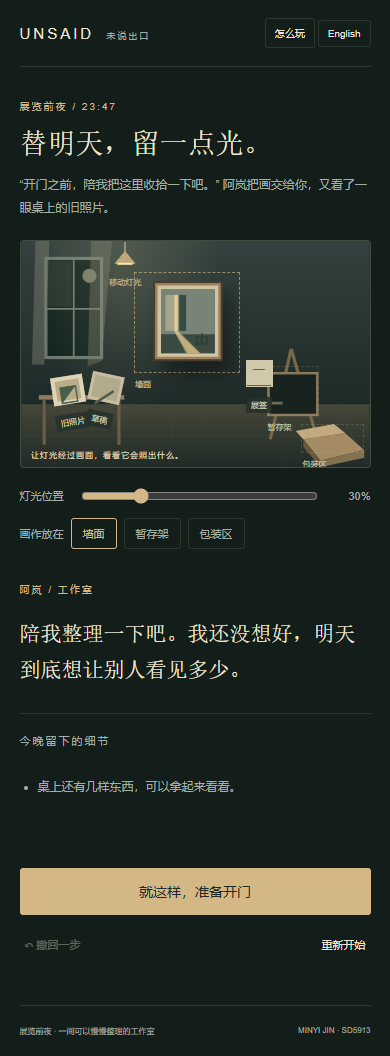
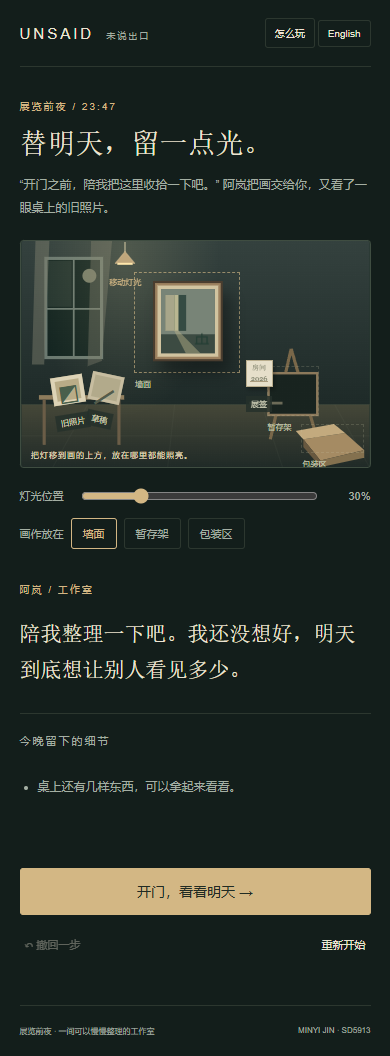
respond to reported peer feedback with light and ending revisions

diff --git a/app.js b/app.js
@@ -6,10 +6,12 @@ const names={wall:['Wall','墙面'],rack:['Holding rack','暂存架'],pack:['Pac
 const text={welcome:["Could you help me get this room ready? I'm still not sure how much I want to share tomorrow.","陪我整理一下吧。我还没想好，明天到底想让别人看见多少。"],light:["There. That strip by the curtain. She always left it open a little. That's the part I kept repainting.","就是那里，窗帘旁边的那条光。她总会留一道缝。那是我一直重画的部分。"],wall:["From here you can see the whole room. Could we leave a little space around it?","放在这里，能看见整个房间。周围留一点空白吧。"],rack:["Let's leave it here while I think. It feels easier when it doesn't have to be a final decision.","先放在这里，让我想想。不用马上决定的话，好像就没那么难了。"],pack:["Maybe I'll take it home tonight. Could you leave the wrapping open until we're done?","也许今晚我想把它带回家。先别封好包装，等我们整理完。"],labelOff:["Thank you. I can show the painting without giving everyone the whole story.","谢谢。把画留下，也不一定要把所有事情都讲出来。"],labelOn:["That is a lot to put beside a painting. Let me look at it once more before morning.","放在一幅画旁边，这些话好像有点多。天亮前，再让我看一次吧。"]};
 function snapshot(){return {state:structuredClone(state),voice};}
 function save(){history.push(snapshot());if(history.length>60)history.shift();}
-function aligned(){return state.place==='wall'&&Math.abs(state.light-48)<=8;}
+// A shared light model follows the painting rather than requiring wall placement.
+function lightTarget(){return {wall:48,rack:78,pack:88}[state.place];}
+function aligned(){return Math.abs(state.light-lightTarget())<=7;}
 function detectLight(){if(aligned()&&!state.revealed){state.revealed=true;voice='light';status=T('The curtain catches the light.','窗帘旁的细节显现了。');}}
 function setPlace(place){if(state.place===place){status=T('The painting is already here.','画已经放在这里了。');render();return;}save();state.place=place;voice=place;status=T('Painting moved. You can undo this.','画的位置已改变，可以撤回。');detectLight();render();}
-function render(){
+function renderBase(){
  document.documentElement.lang=lang?'zh-CN':'en';$('language').textContent=T('中文','English');$('help').textContent=T('How to play','怎么玩');$('studio').setAttribute('aria-label',T('Interactive studio','互动工作室'));
  $('chapter').textContent=T('THE NIGHT BEFORE / 23:47','展览前夜 / 23:47');$('title').textContent=T('Leave a little light for tomorrow.','替明天，留一点光。');$('intro').textContent=T('“Stay and help me get this ready?” Alex hands you the painting, then glances at the old photograph on the table.','“开门之前，陪我把这里收拾一下吧。” 阿岚把画交给你，又看了一眼桌上的旧照片。');
  $('voice-label').textContent=T('ALEX / THE STUDIO','阿岚 / 工作室');$('voice').textContent=text[voice][lang];$('notes-title').textContent=T('Details to take into tomorrow','今晚留下的细节');$('notes').replaceChildren();
@@ -19,7 +21,9 @@ function render(){
  document.querySelectorAll('[data-object]').forEach(b=>{b.querySelector('.tag').textContent=names[b.dataset.object][lang];b.setAttribute('aria-label',T('Inspect ','查看')+names[b.dataset.object][lang]);b.classList.toggle('seen',state.seen.includes(b.dataset.object));});document.querySelector('.label').classList.toggle('removed',!state.label);
  const positions={wall:[38,18,20],rack:[72,58,12],pack:[83,81,11]};const [x,y,w]=positions[state.place];if(!drag||drag.kind!=='painting')Object.assign($('painting').style,{left:x+'%',top:y+'%',width:w+'%'});
  $('painting').setAttribute('aria-label',T('Painting: drag to an area, or click to cycle positions.','画作：拖动至标记区域，或点击切换位置。'));$('lamp').style.left=state.light+'%';$('beam').style.left=state.light+'%';$('lamp').querySelector('span').textContent=T('Move light','移动灯光');$('lamp').setAttribute('aria-label',T('Move light; also available using the slider below.','移动灯光，也可使用下方滑块。'));$('hidden-light').style.opacity=aligned()?'1':'0';
- $('stage-caption').textContent=state.place!=='wall'?T('Return the painting to the wall to explore it in the light.','想再看看画里的光，可以先把画放回墙上。'):state.revealed?T('Pick up the objects. Then decide where the painting belongs.','拿起物件看看，再决定画要放在哪里。'):T('Move the lamp across the painting. What does it reveal?','让灯光经过画面，看看它会照出什么。');$('footer-note').textContent=T('THE NIGHT BEFORE · AN INTERACTIVE STUDIO','展览前夜 · 一间可以慢慢整理的工作室');
+ $('painting').classList.toggle('illuminated',aligned());
+ $('beam').style.height=({wall:85,rack:120,pack:150}[state.place])+'%';
+ $('stage-caption').textContent=aligned()?T('The light found the painting. What will you let visitors see?','灯光落在画上。你想让明天的观众看见什么？'):T('Move the lamp towards the painting, wherever you have placed it.','把灯移到画的上方，放在哪里都能照亮。');$('footer-note').textContent=T('THE NIGHT BEFORE · AN INTERACTIVE STUDIO','展览前夜 · 一间可以慢慢整理的工作室');
  $('help-title').textContent=T('A room before morning','天亮之前');$('help-copy').textContent=T('Move the lamp left or right, or use its slider. When the painting is on the wall, light near its curtain reveals a detail.\n\nPick up the photograph, study sheet and label. Turn them over. The label can stay on the wall or be taken down.\n\nDrag the painting to a marked area, or use the three position buttons below the room. Clicking the painting also cycles positions. Buttons work with Tab and Enter; use arrow keys on the light slider.\n\nWhen ready, leave the room. Undo and Start over let you try again. Nothing is uploaded or saved when you refresh.','左右拖动灯光，或使用下方滑块。画挂在墙上时，靠近窗帘的灯光会显露细节。\n\n拿起照片、草稿和展签，可以翻面。展签可以留下，也可以取下来。\n\n把画拖到标记区域，也可以使用下方三个位置按钮。点击画作会依次切换位置。按钮可用 Tab 和 Enter 操作，滑块可用方向键。\n\n整理好后，点击“准备开门”。随时可以撤回或重新开始。刷新会从头开始，操作不会上传。');$('help-ok').textContent=T('Back to the studio','回到工作室');$('reset-title').textContent=T('Begin the evening again?','重新回到今晚？');$('reset-copy').textContent=T('The light, painting and label will return to their starting positions.','灯光、画作和展签会恢复初始位置。');$('cancel-reset').textContent=T('Keep arranging','继续整理');$('confirm-reset').textContent=T('Start over','重新开始');$('continue').textContent=T('Return to the room','再看看这个房间');$('ending-eyebrow').textContent=T('BEFORE MORNING / 05:12','天快亮了 / 05:12');
  if(currentObject)renderObject();if($('ending').open)renderEnding();
 }
@@ -62,4 +66,33 @@ function moveDrag(e){if(!drag||e.pointerId!==drag.id)return;if(Math.hypot(e.clie
 function endDrag(e,cancel=false){if(!drag||e.pointerId!==drag.id)return;const d=drag;drag=null;$('studio').classList.remove('dragging-room');$('painting').classList.remove('dragging');if(cancel){state=d.before.state;voice=d.before.voice;status=T('Movement cancelled; the previous position was restored.','移动已取消，恢复原来的位置。');render();return;}if(d.kind==='lamp'){if(d.moved)history.push(d.before);render();return;}if(!d.moved){const places=['wall','rack','pack'];setPlace(places[(places.indexOf(state.place)+1)%3]);return;}const x=(e.clientX-d.rect.left)/d.rect.width*100,y=(e.clientY-d.rect.top)/d.rect.height*100;const target=x>=32&&x<=64&&y>=12&&y<=60?'wall':x>=69&&x<=86&&y>=53&&y<=80?'rack':x>=79&&x<=100&&y>=79&&y<=100?'pack':null;if(target){history.push(d.before);state.place=target;voice=target;status=T('Painting placed.','画已放好。');detectLight();}else status=T('Place it inside a marked area. The painting returned safely.','请放到标记区域内，画已回到原处。');render();}
 for(const [id,kind] of [['painting','painting'],['lamp','lamp']]){const b=$(id);b.addEventListener('pointerdown',e=>beginDrag(e,kind));b.addEventListener('pointermove',moveDrag);b.addEventListener('pointerup',e=>endDrag(e));b.addEventListener('pointercancel',e=>endDrag(e,true));}
 $('painting').addEventListener('click',e=>{if(e.detail===0){const places=['wall','rack','pack'];setPlace(places[(places.indexOf(state.place)+1)%3]);}});
+// Additional scene feedback and the final visitor view use the same live arrangement.
+function render(){
+ renderBase();
+ $('help-copy').textContent=T('Move the lamp over the painting on the wall, rack or packing table. A warm highlight appears when it catches the light.\n\nPick up the photograph and studies; turn them over to find their notes. Open the exhibition label to choose whether visitors will read the private statement.\n\nDrag the painting into a marked area, or use the position buttons. Use Tab and Enter for buttons, arrow keys for the light slider.\n\nAfter inspecting two objects, open the doors to see the exhibition you arranged. The final scene can be revisited or restarted.','把灯移到画的上方：墙面、暂存架和包装区都能照亮，光落到画上时会出现暖色细节。\n\n拿起照片和草稿，翻面查看批注。打开展签，决定观众是否会读到私人自述。\n\n拖动画作到标记区域，或使用位置按钮。按钮支持 Tab / Enter，灯光滑块支持方向键。\n\n查看两件物品后，开门看看你布置的展览。结局后可以返回修改，也可以从头再玩。');
+ $('finish').textContent=T('Open the doors →','开门，看看明天 →');
+ document.querySelector('.mini-label').textContent=T('ROOM\n2026','房间\n2026');
+ document.querySelector('.label').setAttribute('title',state.label?T('Visitors will read Alex’s personal statement.','观众会读到阿岚的私人自述。'):T('The statement is set aside; visitors will see the artwork alone.','私人自述已收起，观众只看作品。'));
+ if(currentObject==='label')$('object-copy').textContent+=(state.label?T('\n\nDISPLAYED: visitors can read this personal history beside the painting.','\n\n当前：公开。观众会在画旁读到这段私人经历。'):T('\n\nSET ASIDE: visitors will see the painting without the personal statement.','\n\n当前：收起。观众只会看见画，不会读到这段私人经历。'));
+ $('continue').textContent=T('Revise this exhibition','回到夜里，重新布置');
+ $('play-again').textContent=T('Begin a new evening','开始新的一晚');
+};
+const oldEnding=renderEnding;
+renderEnding=function(){
+ oldEnding();
+ const endingKey=state.place==='wall'?(state.label?'shared':'quiet'):state.place;
+ $('ending').dataset.ending=endingKey;
+ $('ending-eyebrow').textContent=T('EPILOGUE / THE NEXT MORNING','尾声 / 第二天清晨');
+ const visitor={shared:T('The first visitor reads the statement, then steps back to look at the room. Alex stands beside you. “I can tell this part today.”','第一位观众读完展签，退后一步看那间房间。阿岚站在你身边：“今天，我可以讲这一部分。”'),quiet:T('A visitor stops at the painting. Without a statement to read, they spend a little longer looking at the curtain. Alex lets the silence stay.','观众在画前停下。没有自述可读，目光在窗帘上多停留了一会儿。阿岚没有急着解释。'),rack:T('The doors open onto a space still being arranged. Alex sits beside the rack with a pencil. “Not everything has to be ready at the same time.”','门开了，房间仍在整理。阿岚拿着铅笔坐在暂存架旁：“也许，不用所有事情都一起准备好。”'),pack:T('By morning the painting is wrapped, ready to travel. Alex lifts it gently. An empty place remains on the wall, waiting for another day.','天亮时，画已经包好，准备带走。阿岚轻轻抱起它。墙上的位置暂时空着，留给另一天。')};
+ $('visitor-response').textContent=visitor[endingKey];
+ const scene=$('final-scene');scene.replaceChildren();
+ const room=document.querySelector('.room').cloneNode(true);
+ room.querySelectorAll('[id]').forEach(el=>{const old=el.id;el.id='final-'+old;room.querySelectorAll('[fill]').forEach(shape=>{if(shape.getAttribute('fill')===`url(#${old})`)shape.setAttribute('fill',`url(#final-${old})`);});});scene.append(room);
+ const painting=$('painting').cloneNode(true);painting.removeAttribute('id');painting.className='final-painting';painting.disabled=true;painting.querySelectorAll('[id]').forEach(e=>e.removeAttribute('id'));scene.append(painting);
+ if(state.place==='pack'){const wrap=document.createElement('div');wrap.className='final-wrap';scene.append(wrap);}
+ if(state.place==='wall'&&state.label){const label=document.createElement('div');label.className='final-label';label.textContent=T('ROOM / 2026\nA personal history','房间 / 2026\n一段私人记忆');scene.append(label);}
+ const dawn=document.createElement('div');dawn.className='dawn';scene.append(dawn);
+ const caption=document.createElement('p');caption.className='final-caption';caption.textContent={shared:T('The story is shared.','故事被讲给了别人。'),quiet:T('The work speaks first.','先让作品开口。'),rack:T('There is still time.','还有一些时间。'),pack:T('A memory goes home.','一段记忆，被带回家。')}[endingKey];scene.append(caption);
+};
+$('play-again').onclick=()=>{$('ending').close();state=initial();history=[];voice='welcome';status='';render();};
 render();

diff --git a/style.css b/style.css
@@ -1,3 +1,6 @@
 *{box-sizing:border-box}:root{color-scheme:dark;--bg:#131e1b;--ink:#ece5d3;--muted:#a4afa3;--gold:#d3b784;--line:#d1d6b522}body{margin:0;background:var(--bg);color:var(--ink);font:14px Arial,"Microsoft YaHei",sans-serif}button,a,input{-webkit-tap-highlight-color:transparent}button{font:inherit;color:inherit;cursor:pointer;background:none;border:1px solid var(--line);border-radius:3px;padding:10px 15px}button:hover{border-color:var(--gold);background:#d3b7840c}button:focus-visible,a:focus-visible,input:focus-visible{outline:2px solid #f5dca0;outline-offset:4px}button:disabled{opacity:.35;cursor:default}header{margin:0 5vw;padding:23px 0;display:flex;justify-content:space-between;align-items:center;border-bottom:1px solid var(--line)}header a{color:var(--ink);text-decoration:none;letter-spacing:5px;font-size:18px}header a span{font-size:11px;letter-spacing:2px;color:var(--muted);margin-left:12px}header button{margin-left:8px;font-size:12px}main{max-width:1600px;margin:auto;padding:35px 5vw 0}.heading{display:flex;justify-content:space-between;align-items:center;margin-bottom:26px;gap:25px}.eyebrow{font-size:10px;letter-spacing:2px;color:var(--gold);text-transform:uppercase}h1{font:normal clamp(28px,3vw,43px)/1.25 Georgia,"Songti SC",serif;margin:13px 0}.heading>p{max-width:340px;line-height:1.9;color:var(--muted);font-size:12px}.layout{display:grid;grid-template-columns:minmax(0,1fr) 265px;gap:34px}#studio{aspect-ratio:1000/650;position:relative;overflow:hidden;border:1px solid #aeb29530;border-radius:4px;background:#25352e;isolation:isolate}.room{position:absolute;width:100%;height:100%;inset:0}#beam{position:absolute;left:30%;top:-6%;width:55%;height:85%;transform:translateX(-50%);background:radial-gradient(ellipse at 50% 15%,#fff0ac24,transparent 70%);pointer-events:none;z-index:1}.zone{position:absolute;border:1px dashed #c6c4a333;z-index:2;padding:0;border-radius:0;transition:background .2s,border-color .2s}.zone span{position:absolute;bottom:-24px;left:0;font-size:10px;color:#c0c5ad;white-space:nowrap;letter-spacing:1px}.wall-zone{left:32.5%;top:13.8%;width:30.5%;height:44.6%}.rack-zone{left:70.5%;top:55.5%;width:15%;height:22%}.pack-zone{left:80.5%;top:81%;width:18%;height:13%}.zone.active{border-color:#e6c78f90}.dragging-room .zone{background:#d3b78412;border-color:#e6c78f99}.zone:hover{background:#d3b78415}#painting{position:absolute;left:38%;top:18%;width:20%;padding:0;border:0;background:transparent;z-index:4;touch-action:none;cursor:grab;filter:drop-shadow(8px 12px 8px #0005);transition:width .2s,filter .2s}#painting svg{display:block;width:100%;height:auto}#painting.dragging{cursor:grabbing;transition:none;filter:drop-shadow(15px 20px 12px #0007)}#hidden-light{opacity:0;transition:opacity .3s}#lamp{position:absolute;left:30%;top:0;width:8%;height:17%;transform:translateX(-50%);padding:0;border:0;z-index:6;touch-action:none;cursor:ew-resize;background:transparent}#lamp svg{width:100%;height:100%}#lamp span{position:absolute;top:95%;left:50%;transform:translateX(-50%);font-size:9px;white-space:nowrap;color:var(--gold)}.object{position:absolute;z-index:5;padding:0;border:0;border-radius:0}.object:hover{filter:brightness(1.25)}.photo{left:9%;top:60%;width:7%;height:8%;transform:rotate(-9deg)}.mini-photo{display:grid;place-items:center;background:#b9ac87;border:4px solid #ddd3b6;color:#4a5f4b;width:100%;height:100%;font-size:25px}.sketch{left:20%;top:59%;width:7%;height:9%;transform:rotate(12deg)}.mini-sketch{display:grid;place-items:center;background:#b2aa8b;color:#535c4c;width:100%;height:100%;font-size:30px;border:3px solid #c7bda0}.label{left:64.5%;top:53%;width:5%;height:7%;background:#d1c7aa;color:#626750}.mini-label{font-size:12px}.label.removed{left:26%;top:61%;transform:rotate(-5deg)}.tag{position:absolute;top:calc(100% + 10px);left:50%;transform:translateX(-50%);white-space:nowrap;font-size:10px;color:#d3d3ba;letter-spacing:1px;background:#24302ad9;padding:3px 5px}.object.seen:after{content:"";position:absolute;right:-4px;top:-4px;width:7px;height:7px;background:var(--gold);border-radius:50%}.stage-caption{position:absolute;left:3%;bottom:3%;color:#e1dbbd;font-size:11px;letter-spacing:1px;z-index:7;pointer-events:none}.light-control{display:flex;align-items:center;gap:15px;margin-top:18px;color:var(--muted);font-size:11px}.light-control input{flex:1;accent-color:var(--gold);min-width:60px}.light-control span{width:36px;text-align:right}.placement{display:flex;gap:7px;align-items:center;flex-wrap:wrap;margin-top:12px;font-size:11px;color:var(--muted)}.place-option{font-size:11px;padding:7px 11px}.place-option[aria-pressed=true]{border-color:var(--gold);color:var(--gold)}aside{padding:10px 0;display:flex;flex-direction:column}#voice{font:normal 22px/1.75 Georgia,"Songti SC",serif;min-height:155px;margin:18px 0}.divider{height:1px;background:var(--line);margin:4px 0 23px}aside h2{font-size:11px;font-weight:400;color:var(--muted);letter-spacing:2px}#notes{padding-left:18px;color:var(--muted);line-height:1.8;font-size:12px;min-height:100px}#notes li{margin:8px 0}#status{font-size:12px;line-height:1.7;min-height:40px;color:var(--gold)}.primary{background:#d3b784;color:#202b23;border-color:#d3b784;padding:13px 17px}.primary:hover{background:#e2c99f;color:#152219}.small-actions{display:flex;justify-content:space-between;margin-top:13px;gap:5px}.small-actions button{font-size:11px;padding:9px 5px;border:0}footer{display:flex;justify-content:space-between;gap:20px;margin-top:36px;padding:20px 0;border-top:1px solid var(--line);color:var(--muted);font-size:9px;letter-spacing:1.5px}dialog{background:#202e27;color:var(--ink);border:1px solid #d3b78460;border-radius:5px;padding:35px;max-width:min(550px,92vw);width:550px;max-height:90dvh;overflow:auto;box-shadow:0 25px 100px #0008}dialog::backdrop{background:#09130fd9;backdrop-filter:blur(5px)}dialog h2{font:normal 30px/1.4 Georgia,"Songti SC",serif;margin:20px 0 12px}dialog p{line-height:1.9;color:#ccd1bd;font-size:14px;white-space:pre-line}.close{position:absolute;right:15px;top:12px;border:0;font-size:24px;padding:3px 10px}.dialog-actions{display:flex;gap:10px;flex-wrap:wrap;margin-top:25px}.dialog-actions button{font-size:12px}#object-art{height:180px;background:#17251f;display:grid;place-items:center;margin-top:20px;overflow:hidden}#object-art svg{height:150px;max-width:90%}#ending-summary{border-left:1px solid var(--gold);padding-left:17px;margin:24px 0;color:var(--muted);font-size:13px;line-height:2;white-space:pre-line}.back-art{font:italic 22px/1.8 Georgia,"Songti SC",serif;padding:20px;color:#d1c5a1;transform:rotate(-3deg)}@media(max-width:1000px){.layout{grid-template-columns:minmax(0,1fr) 230px;gap:23px}#voice{font-size:19px}}@media(max-width:760px){header{margin:0 5vw;padding:18px 0}header a{font-size:15px;letter-spacing:3px}header a span{margin-left:5px;font-size:9px}header button{padding:7px 9px;font-size:10px;margin-left:3px}main{padding-top:22px}.heading{display:block;margin-bottom:20px}.heading>p{font-size:12px;max-width:none}.layout{grid-template-columns:1fr;gap:15px}#voice{min-height:0;font-size:21px;margin:10px 0 20px}.divider{margin-bottom:10px}#notes{min-height:0}aside{padding:8px 0}#status{min-height:25px}.tag,.zone span{font-size:8px;letter-spacing:0}.zone span{bottom:-17px}.stage-caption{font-size:8px;max-width:73%}#lamp span{font-size:8px}dialog{padding:27px}footer{font-size:8px;letter-spacing:0}.object.photo,.object.sketch{min-width:32px;min-height:28px}.label{min-width:27px;min-height:27px}}@media(prefers-reduced-motion:reduce){*{transition:none!important;scroll-behavior:auto!important}}
 /* Object close-ups stay legible without external image assets. */
 .study-sheet{display:grid;grid-template-columns:repeat(3,1fr);gap:5px;background:#c9bc97;padding:10px 20px;transform:rotate(-3deg);height:155px;width:240px}.study-sheet svg{height:62px!important;width:62px}.label.removed{left:32%;top:65%;transform:rotate(-5deg)}
+/* Light remains useful at every destination; epilogues show the arranged scene. */
+#painting.illuminated{filter:drop-shadow(0 0 16px #f8d58d66) brightness(1.15)}.mini-label{display:block;font:9px/1.5 Georgia,serif;white-space:pre-line;letter-spacing:1px}.label{background:#e6dfca;border:1px solid #b9ad8d;box-shadow:2px 3px 4px #0004}.label:before{content:"";position:absolute;left:15%;right:15%;bottom:16%;height:1px;background:#aa9b7d}
+#ending{width:850px;max-width:94vw}#ending h2{margin-top:10px}#final-scene{position:relative;isolation:isolate;aspect-ratio:1000/650;overflow:hidden;background:#314339;border-radius:3px}#final-scene .room{z-index:0}.final-painting{position:absolute;z-index:1;padding:0;border:0;background:none!important;opacity:1!important;filter:brightness(1.18);pointer-events:none}.final-painting svg{width:100%;display:block}.dawn{position:absolute;inset:0;background:linear-gradient(110deg,#ffe7a24d,transparent 65%);pointer-events:none;z-index:3}.final-label{position:absolute;left:64%;top:52%;padding:5px;background:#e8dfc6;color:#534d3b;font-size:8px;white-space:pre-line;z-index:2}.final-wrap{position:absolute;left:82%;top:80%;width:13%;height:19%;background:repeating-linear-gradient(40deg,#b6a17b,#b6a17b 18px,#c3af88 19px,#c3af88 40px);transform:rotate(-5deg);z-index:2;border:1px solid #e0cca4}.final-caption{position:absolute;bottom:3%;left:4%;margin:0!important;color:#fff0cb!important;z-index:4;font:18px/1.4 Georgia,"Songti SC",serif!important;text-shadow:0 2px 5px #000}#visitor-response{padding:16px 20px;border-left:2px solid var(--gold);background:#d3b7840b}#ending[data-ending=pack] .dawn{background:linear-gradient(120deg,#e6d1a233,transparent)}@media(max-width:760px){.mini-label{font-size:7px;letter-spacing:0}.final-caption{font-size:14px!important}.final-label{font-size:5px;padding:2px}#ending{padding:23px}}

diff --git a/index.html b/index.html
@@ -21,7 +21,7 @@
 <aside><p class="eyebrow" id="voice-label"></p><p id="voice" aria-live="polite"></p><div class="divider"></div><h2 id="notes-title"></h2><ul id="notes"></ul><p id="status" role="status"></p><button id="finish" class="primary"></button><div class="small-actions"><button id="undo"></button><button id="restart"></button></div></aside></div>
 <footer><span id="footer-note"></span><span>MINYI JIN · SD5913</span></footer></main>
 <dialog id="inspect"><button class="close" id="close-inspect" aria-label="Close">×</button><p class="eyebrow" id="object-number"></p><div id="object-art"></div><h2 id="object-title"></h2><p id="object-copy"></p><div class="dialog-actions"><button id="flip"></button><button id="label-toggle" hidden></button><button id="put-back" class="primary"></button></div></dialog>
-<dialog id="ending"><p class="eyebrow" id="ending-eyebrow"></p><h2 id="ending-title"></h2><p id="ending-copy"></p><div id="ending-summary"></div><button id="continue" class="primary"></button></dialog>
+<dialog id="ending"><p class="eyebrow" id="ending-eyebrow"></p><h2 id="ending-title"></h2><div id="final-scene" aria-label="Final exhibition"></div><p id="ending-copy"></p><p id="visitor-response"></p><div id="ending-summary"></div><div class="dialog-actions"><button id="continue"></button><button id="play-again" class="primary"></button></div></dialog>
 <dialog id="help-dialog"><button class="close" id="close-help" aria-label="Close">×</button><h2 id="help-title"></h2><p id="help-copy"></p><button id="help-ok" class="primary"></button></dialog>
 <dialog id="reset-dialog"><h2 id="reset-title"></h2><p id="reset-copy"></p><div class="dialog-actions"><button id="cancel-reset"></button><button id="confirm-reset" class="primary"></button></div></dialog>
 <script src="app.js"></script></body></html>

diff --git a/PROCESS.md b/PROCESS.md
@@ -26,9 +26,11 @@ The assistant proposed a narrative game, but the author requested repository set
 
 ## User trial / 真人试用
 
-Not conducted yet. After a runnable prototype exists, ask at least one other person to try it before explaining the controls. Record what they attempt, hesitation, whether feedback is understood, and one resulting improvement or a reason to retain the design. Do not publish identifying details or recordings of the participant.
+At the initial scaffold stage, no trial had been reported. For the later peer feedback reported by the author on 25 October, see the dated entry below and USER-TRIAL.md. Participant identities are not published.
 
 尚未进行。原型可运行后，在解释操作之前请至少一人尝试；记录实际操作、犹豫点、反馈是否易懂，以及据此作出的修改或保留理由。不公开参与者身份信息或录音录像。
+
+（以上为初始阶段状态；10 月 25 日作者转述的两位同学反馈，见文末及 USER-TRIAL.md。）
 
 ## 20 October 2026 — First playable conversation / 首个可玩对话
 
@@ -61,3 +63,17 @@ Code and SVG/CSS scene artwork were produced with Codex. The fictional bereaveme
 Verification: headless Edge exercised actual mouse dragging, native slider input, undo, object inspection/flipping, label removal/replacement, all four closing scenes, invalid drop return, keyboard placement, language preservation and reset cancellation/confirmation. A 390 px layout and touch-enabled browser context were also checked. No JavaScript page errors were observed. Desktop/mobile screenshots were visually inspected. This is developer verification, not a claim that a person used the design without guidance. No official course checker was run.
 
 Remaining: ask another person to use the revised studio before explaining controls; record their real attempts, hesitation and feedback using USER-TRIAL.md, then document the resulting change or retention decision. Do not claim that the author's critique or browser automation fulfils this requirement.
+
+## 25 October 2026 — Peer feedback reported by the author / 作者转述同学反馈
+
+The author clarified that the earlier dialogue critique and the later studio critique came from two different classmates and were relayed in conversation. They are recorded separately as P1 and P2 in USER-TRIAL.md. This supersedes our earlier attribution of those comments solely to author review. The developer did not directly observe either session. Actual session dates, devices, exact quotations and whether controls were explained beforehand were not supplied; no details are invented. The report date below is not a claimed session date.
+
+作者澄清，早期的对话版意见与后来的场景版意见分别来自两位同学，由作者口头转述。因此在 USER-TRIAL.md 中分别记录为 P1 与 P2，修正此前仅归为作者评审的来源判断。开发助手没有直接观察试用；实际日期、设备、逐字原话，以及是否在试用前解释玩法，均未提供，不作补写。
+
+P1 found the original experience too passive and similar to a branching visual novel. Decision: retain the move from selecting dialogue to manipulating the studio, documented in the 21 October implementation.
+
+P2 liked the light interaction and the texture of the photograph/studies, but was disappointed that light stopped affecting the painting on the rack or in the packing area. They did not understand the label's purpose and found its appearance weak. They also found the old ending unclear: the main visible next action was returning to the same room. They wanted more distinct conclusions. These are paraphrases of the author's report, not direct participant quotations.
+
+Implemented response: alignment now follows painting position in all three destinations, with a visible warm highlight. The label has a typeset face and explicit displayed/set-aside consequences. Opening the doors creates an epilogue with a morning scene based on the actual arrangement, four distinct closing outcomes, visitor/character text, and separate revise/restart actions. Preserve the photograph, studies and language switching in response to positive feedback. The inline SVG morning scene is code-authored with Codex; no new external assets or services were introduced.
+
+Developer verification: browser checks exercised illumination on the wall, rack and packing area, object inspection, undo, all four closing outcomes, wrapping visible in the packing ending, invalid-drop recovery, keyboard alternatives, reset confirmation and touch-enabled controls. Screenshots were captured. A peer retest of these new changes has not yet been reported. Before final submission, clarify whether the original trial began without an explanation of the controls, as the brief requests.

diff --git a/README.md b/README.md
@@ -18,11 +18,11 @@ The first version used branching dialogue. Following the author's feedback that 
 
 ## What you can do / 操作
 
-- Move the hanging lamp, or use the light-position slider. With the painting on the wall, light near its curtain reveals a detail and changes Alex's response.
+- Move the hanging lamp, or use the light-position slider. Light reveals the curtain detail on the wall, holding rack and packing area. Move the lamp towards the painting's current position; a warm highlight confirms alignment.
 - Pick up the photograph, study sheet and exhibition label. Turn each over to read the reverse.
 - Drag the painting to the wall, holding rack or packing area. The visible placement, selected control and character response change together. Position buttons below the scene offer the same action; clicking the painting cycles through positions.
 - Take the statement off the wall or put it back. Its location in the room changes.
-- After inspecting two objects, choose to leave the room ready. The closing scene reflects the painting's location and whether the statement remains displayed. Return to the room to revise it.
+- After inspecting two objects, open the doors. An illustrated morning epilogue reflects your actual arrangement: sharing the statement, exhibiting the painting alone, leaving it on the rack, or taking it home. Each has distinct closing text. Revise the exhibition or begin a new evening using separate buttons.
 - Undo restores the previous action. Start over asks for confirmation. English/Chinese switching preserves the arrangement.
 
 拖灯或使用滑块照亮画中细节；拿起三件物品并翻面；将画放到墙面、暂存架或包装区；决定展签是否公开。查看至少两件物品后，可以结束布展，看到与当前布置对应的收尾。可以回到房间继续调整，也可撤回或确认重启。语言切换保留状态。
@@ -51,9 +51,9 @@ A relevant mistake is an invalid painting drop: the picture returns to its previ
 
 ## Limitations / 局限
 
-This is stylised fiction involving bereavement, not a counselling tool. The physical light reveals an authored visual layer rather than simulating optics. The artwork and room are geometric SVG illustrations. Painting movement snaps to three destinations; other objects are inspected in place. Refreshing restarts the session; there is no persistent save, audio or network AI. The author still needs to review the new fictional scene and conduct the required real-person trial. Automated browser checks are not that trial.
+This is stylised fiction involving bereavement, not a counselling tool. Light reveals an authored visual layer rather than simulating optics. The artwork and room are geometric SVG illustrations. Painting movement snaps to three destinations; other objects are inspected in place. Refreshing restarts the session; there is no persistent save, audio or network AI. Feedback from two classmates has been reported by the author and informed revisions; the developer did not directly observe those sessions. Whether controls were explained before those sessions still needs clarification. A participant retest of the latest changes has not been reported.
 
-这是涉及丧亲记忆的风格化虚构作品。光照通过预设图层表达，画作吸附到三个固定位置，不是物理模拟。刷新会重启，没有存档、声音或在线生成。新版仍待作者审阅与真人试用，浏览器验证不能代替真人试用。
+这是涉及丧亲记忆的风格化虚构作品。光照通过预设图层表达，画作吸附到三个固定位置，不是物理模拟。刷新会重启，没有存档、声音或在线生成。两位同学的反馈已由作者转述并用于修改，助手未直接观察试用。试用前是否讲解玩法仍待确认，新版尚未收到参与者复测。
 
 ## Development verification / 开发验证
 
@@ -74,7 +74,8 @@ Due **1 November 2026, 23:59 Hong Kong time**, according to the supplied Canvas 
 - [x] Scene interactions and mistake recovery checked in a browser.
 - [x] Development decisions, AI assistance and credits documented.
 - [ ] Author review of the revised scene and interaction.
-- [ ] Real-person trial, observation and a resulting decision recorded.
+- [x] Two classmates' feedback recorded as reported by the author, with resulting design decisions.
+- [ ] Confirm whether the trial started before explaining controls; report any final participant retest.
 - [ ] Final fresh-terminal run and signed-out repository check.
 - [ ] Final repository URL submitted on Canvas by the author.
 

diff --git a/USER-TRIAL.md b/USER-TRIAL.md
@@ -1,6 +1,33 @@
 # User trial guide / 真人试用步骤
 
-This is a blank protocol, not a completed trial. / 这是试用步骤，尚未完成真人试用。
+## Reported feedback / 已转述的反馈
+
+Source: on 25 October 2026 the author explicitly stated that the comments below came from two different classmates and were relayed by the author. The developer did not directly observe these sessions. Entries are paraphrases, not verbatim quotations. Actual trial dates, devices and whether participants received an explanation before starting were not supplied. 25 October is the report date, not a reconstructed trial date. No signatures or identifying information are included.
+
+来源：2026 年 10 月 25 日，作者明确说明以下意见分别来自两位不同同学，由作者转述。助手未直接观察试用；记录为转述，不作逐字引用。实际试用日期、设备和开始前是否讲解玩法未提供。10 月 25 日是反馈报告日期，不是推定试用日期。
+
+### P1 — Branching dialogue prototype
+
+- Reported response: the experience felt too simple and passive, resembling a branching visual novel where the player mainly follows a story.
+- Decision: replace the dialogue choice list with direct manipulation of a studio scene: lamp movement, object inspection and painting placement.
+- Implemented in the 21 October revision. The visible development history preserves the earlier dialogue version.
+
+P1 认为初版像分支视觉小说，主要跟着剧情走，交互单调。由此改为灯光、物件和布展的直接操作；10 月 21 日版本已实现。
+
+### P2 — Spatial studio prototype
+
+- Positive feedback: liked the light design, photograph/study texture and bilingual presentation.
+- Problem: moving the painting to the rack or packing area removed the light interaction, which was disappointing.
+- Problem: the exhibition label's meaning was unclear and its appearance could improve.
+- Problem: opening the doors did not feel like a clear conclusion; the return-to-room action left the purpose of the ending unclear. Requested distinct endings.
+- Decision: preserve the praised materials; allow illumination at all destinations, clarify displayed/private label states, and introduce illustrated morning epilogues with distinct outcomes and explicit revise/restart choices.
+- Implemented in the 25 October revision. Developer browser verification passed. Participant retest of this revision has not been reported.
+
+P2 喜欢灯光、照片与草稿质感和双语。问题是画离开墙面后无法与灯互动，展签意义和外观不清楚，“准备开门”后的收尾不明确。10 月 25 日据此补齐三处光照响应、展签公开状态与图像化的不同结局。尚未收到这次修改后的同学复测。
+
+## Follow-up protocol / 后续试用步骤
+
+For the final record, confirm whether participants initially used the experience before receiving an explanation of its controls. The steps below can also be used for a fresh retest; they do not claim such a retest has happened.
 
 1. Ask one person willing to try a small illustrated studio. Do not explain the controls or intended message beforehand. Let them choose English or Chinese.
 2. Say only: “Please try this experience. Tell me what you are thinking as you use it.”

diff --git a/CREDITS.md b/CREDITS.md
@@ -19,3 +19,7 @@
 - Codex: HTML/CSS/SVG room and fictional art assets, light/placement/inspection code, bilingual fictional text and browser verification.
 - All visual assets in the current scene are inline SVG/CSS authored for this prototype. No external photos, private materials or media-generation services are included. No third-party runtime code or fonts are loaded.
 - 作者提出画面操作方向并批评初版文案；Codex 协助实现内联 SVG/CSS 场景、交互代码和中英文虚构文本。未引入外部图片或私人素材。
+
+## 25 October 2026 revision
+
+Two classmates' feedback was relayed by the author, as documented with source limitations in USER-TRIAL.md. Codex implemented all-location lighting, clearer label presentation and illustrated epilogues using the existing inline SVG/CSS assets. No participant identities or recordings were published.
